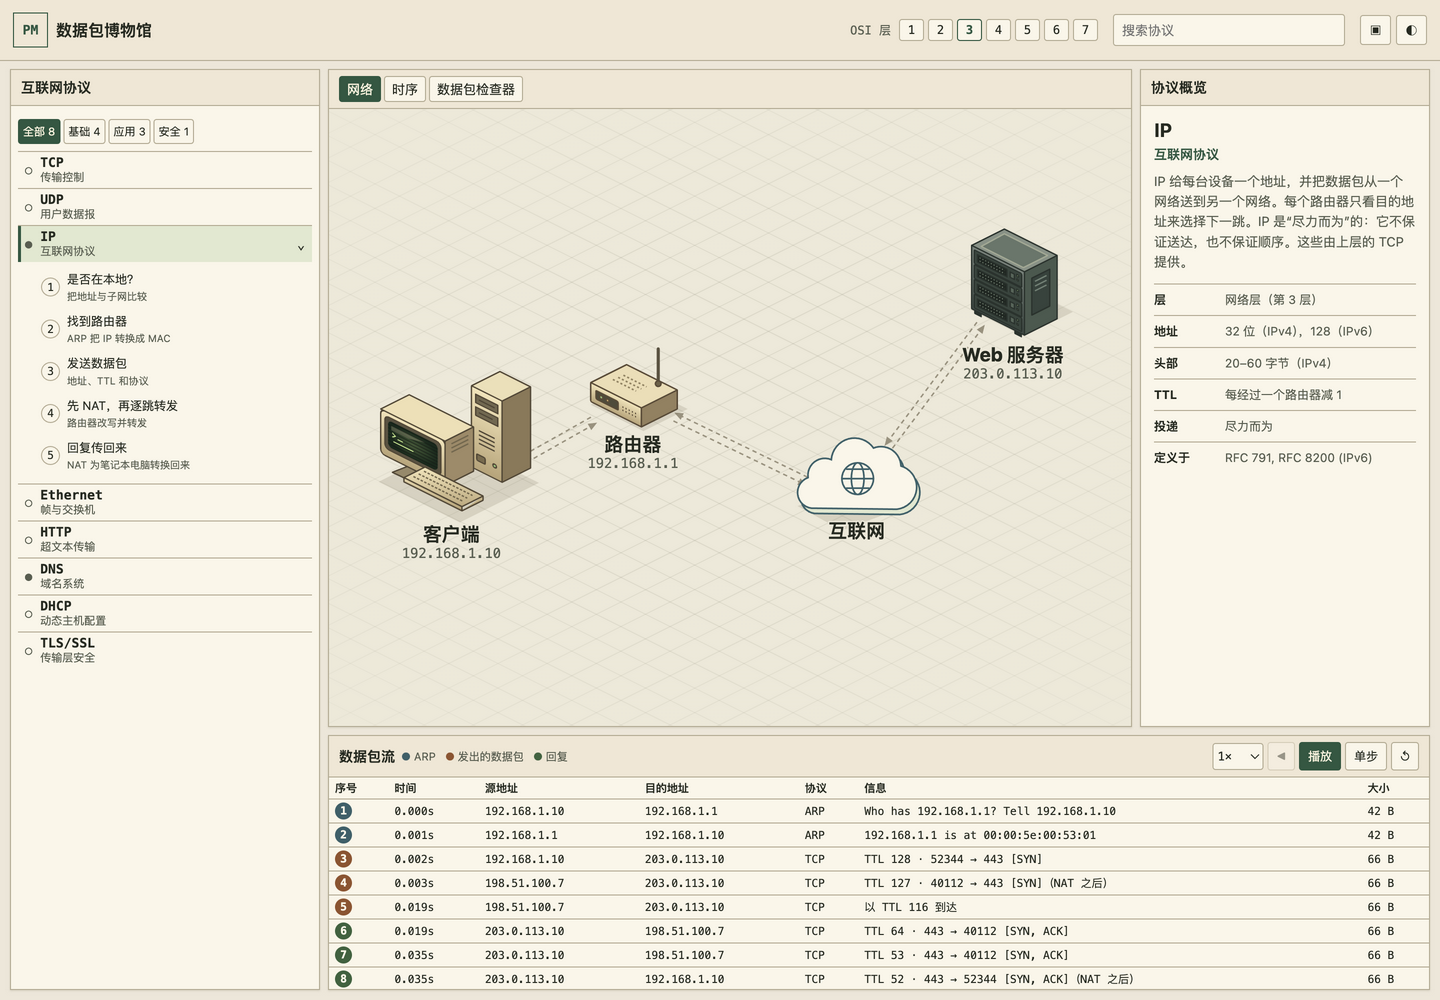
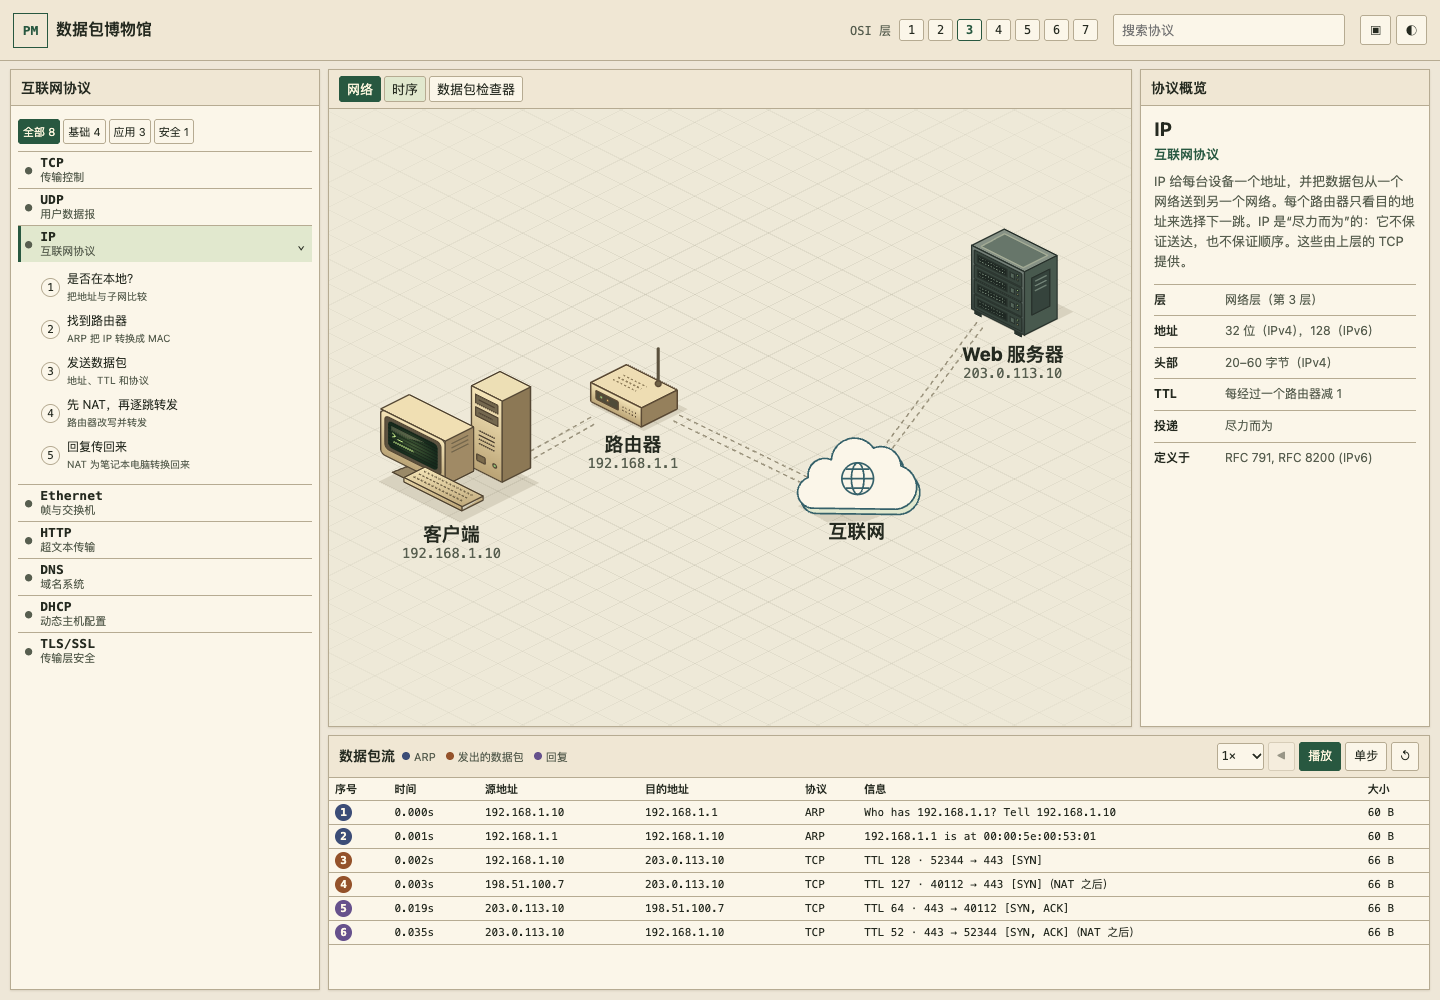
IPv4 帧补齐填充，ARP 解析移至第一步

diff --git a/src/lessons/ipv4/frames.js b/src/lessons/ipv4/frames.js
@@ -7,9 +7,9 @@ const mac = {
   isp: '00:00:5e:00:53:fe', web: '00:00:5e:00:53:40', webRouter: '00:00:5e:00:53:80',
 };
 
-const request = ethernet({ src: mac.client, dst: 'ff:ff:ff:ff:ff:ff', type: 0x0806,
+const request = ethernet({ src: mac.client, dst: 'ff:ff:ff:ff:ff:ff', type: 0x0806, pad: true,
   payload: arp({ operation: 1, senderMac: mac.client, senderIp: client, targetIp: router }) });
-const response = ethernet({ src: mac.lan, dst: mac.client, type: 0x0806,
+const response = ethernet({ src: mac.lan, dst: mac.client, type: 0x0806, pad: true,
   payload: arp({ operation: 2, senderMac: mac.lan, senderIp: router, targetMac: mac.client, targetIp: client }) });
 
 const syn = [2, 4, 0x05, 0xb4, 1, 3, 3, 8, 1, 1, 4, 2];
@@ -27,19 +27,15 @@ function segment(srcMac, dstMac, ttl, translated, reply = false) {
 
 export const frames = [
   ['arp-request', ['client', 'router'], '0.000s', 'Who has 192.168.1.1? Tell 192.168.1.10',
-    ['谁有 192.168.1.1？', '请告诉 192.168.1.10'], request, 'arp', 2600],
+    ['谁有 192.168.1.1？', '请告诉 192.168.1.10'], request, 'arp', 1250],
   ['arp-reply', ['router', 'client'], '0.001s', `192.168.1.1 is at ${mac.lan}`,
-    ['192.168.1.1 is at', mac.lan], response, 'arp', 1300],
+    ['192.168.1.1 的 MAC', mac.lan], response, 'arp', 1300],
   ['syn-lan', ['client', 'router'], '0.002s', 'TTL 128 · 52344 → 443 [SYN]',
     ['192.168.1.10 → 203.0.113.10', 'TTL 128 · 协议 TCP'], segment(mac.client, mac.lan, 128, false), 'outgoing', 1250],
-  ['syn-wan', ['router', 'internet'], '0.003s', 'TTL 127 · 40112 → 443 [SYN]（NAT 之后）',
+  ['syn-wan', ['router', 'internet', 'web'], '0.003s', 'TTL 127 · 40112 → 443 [SYN]（NAT 之后）',
     ['198.51.100.7 → 203.0.113.10', 'TTL 127 · NAT 之后'], segment(mac.wan, mac.isp, 127, true), 'outgoing', 1450],
-  ['syn-web', ['internet', 'web'], '0.019s', '以 TTL 116 到达',
-    ['198.51.100.7 → 203.0.113.10', '以 TTL 116 到达'], segment(mac.webRouter, mac.web, 116, true), 'outgoing', 650],
-  ['reply-web', ['web', 'internet'], '0.019s', 'TTL 64 · 443 → 40112 [SYN, ACK]',
+  ['reply-web', ['web', 'internet', 'router'], '0.019s', 'TTL 64 · 443 → 40112 [SYN, ACK]',
     ['203.0.113.10 → 198.51.100.7', 'TTL 64 · SYN-ACK'], segment(mac.web, mac.webRouter, 64, true, true), 'reply', 1150],
-  ['reply-wan', ['internet', 'router'], '0.035s', 'TTL 53 · 443 → 40112 [SYN, ACK]',
-    ['203.0.113.10 → 198.51.100.7', 'TTL 53 · SYN-ACK'], segment(mac.isp, mac.wan, 53, true, true), 'reply', 650],
   ['reply-lan', ['router', 'client'], '0.035s', 'TTL 52 · 443 → 52344 [SYN, ACK]（NAT 之后）',
     ['203.0.113.10 → 192.168.1.10', 'TTL 52 · NAT 之后'], segment(mac.lan, mac.client, 52, false, true), 'reply', 850],
 ].map(([id, path, time, summary, badge, bytes, category, leadMs]) => ({

diff --git a/src/lessons/ipv4/index.js b/src/lessons/ipv4/index.js
@@ -13,19 +13,24 @@ const links = [
   { nodes: ['router', 'internet'], points: [[328, 230], [452, 290]] },
   { nodes: ['internet', 'web'], points: [[531, 257], [617, 142]] },
 ];
-// shortcut: 现有引擎要求每步有帧，支持纯讲解步骤后把请求移回 ARP 步骤。
-const stepFrames = [['arp-request'], ['arp-reply'], ['syn-lan'], ['syn-wan', 'syn-web'], ['reply-web', 'reply-wan', 'reply-lan']];
+const stepFrames = [[], ['arp-request', 'arp-reply'], ['syn-lan'], ['syn-wan'], ['reply-web', 'reply-lan']];
+const notes = [
+  [{ node: 'client', text: '203.0.113.10 不在本地' }],
+  [], [],
+  [{ node: 'web', after: 'syn-wan', text: '以 TTL 116 到达' }],
+  [{ node: 'router', after: 'reply-web', text: 'NAT: 40112 → 192.168.1.10' }],
+];
 
 export default {
   meta: { id: 'ipv4', title: 'IP', subtitle: overview.subtitle, group: 1, order: 10, layer: 3 },
   overview, outro, nodes, links, frames,
   legend: {
-    arp: { label: 'ARP', tone: 'query' },
+    arp: { label: 'ARP', tone: 'navy' },
     outgoing: { label: '发出的数据包', title: 'IP 数据包', tone: 'referral' },
-    reply: { label: '回复', title: '应答', tone: 'reply' },
+    reply: { label: '回复', title: '应答', tone: 'violet' },
   },
   steps: steps.map((step, i) => ({
-    ...step, frames: stepFrames[i], ...(i < 3 ? { nodes: local } : { wide: true }),
+    ...step, frames: stepFrames[i], events: notes[i], ...(i < 3 ? { nodes: local } : { wide: true }),
     ...(i === 0 ? { closeup: ['client'] } : {}),
   })),
 };
